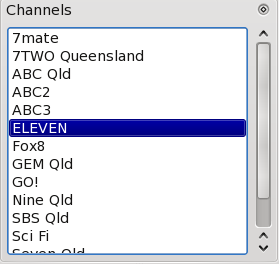
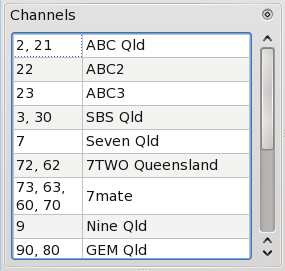
Update documentation with latest features.

diff --git a/help/en/viewing.html b/help/en/viewing.html
@@ -10,6 +10,10 @@
 <img src="view_channels.png">
 </center><p>
 
+<i>Note:</i> channel numbers are only available when using
+the Australian TV programme data from the
+<a href="http://www.oztivo.net/">OzTivo</a> guide service.<p>
+
 If some channels are not appropriate in your region or you do
 not watch them regularly, you can
 <a href="edit_channels.html">refine</a> the list using
@@ -48,6 +52,13 @@ programme view to specific times of day:<p>
 
 <center>
 <img src="view_periods.png">
+</center><p>
+
+<b>All Channels</b> from the <b>View</b> menu will show the
+programmes for the current day for all channels:<p>
+
+<center>
+<img src="view_all_channels.png">
 </center><p>
 
 <a href="index.html">Return to main index</a>

diff --git a/help/en/bookmarks.html b/help/en/bookmarks.html
@@ -26,6 +26,10 @@ it will be displayed in the selected color:<p>
 <img src="bookmark_set.png">
 </center><p>
 
+If you use <b>Add Bookmark</b> on a programme that is already
+bookmarked, then you will be asked if you wish to edit the
+existing bookmark's details or add a new bookmark.<p>
+
 <b>7 Day Bookmark Outlook</b> on the <b>View</b> menu will show
 the bookmarked programmes for the next 7 days on the current
 channel, starting at the selected date in the calendar:<p>
